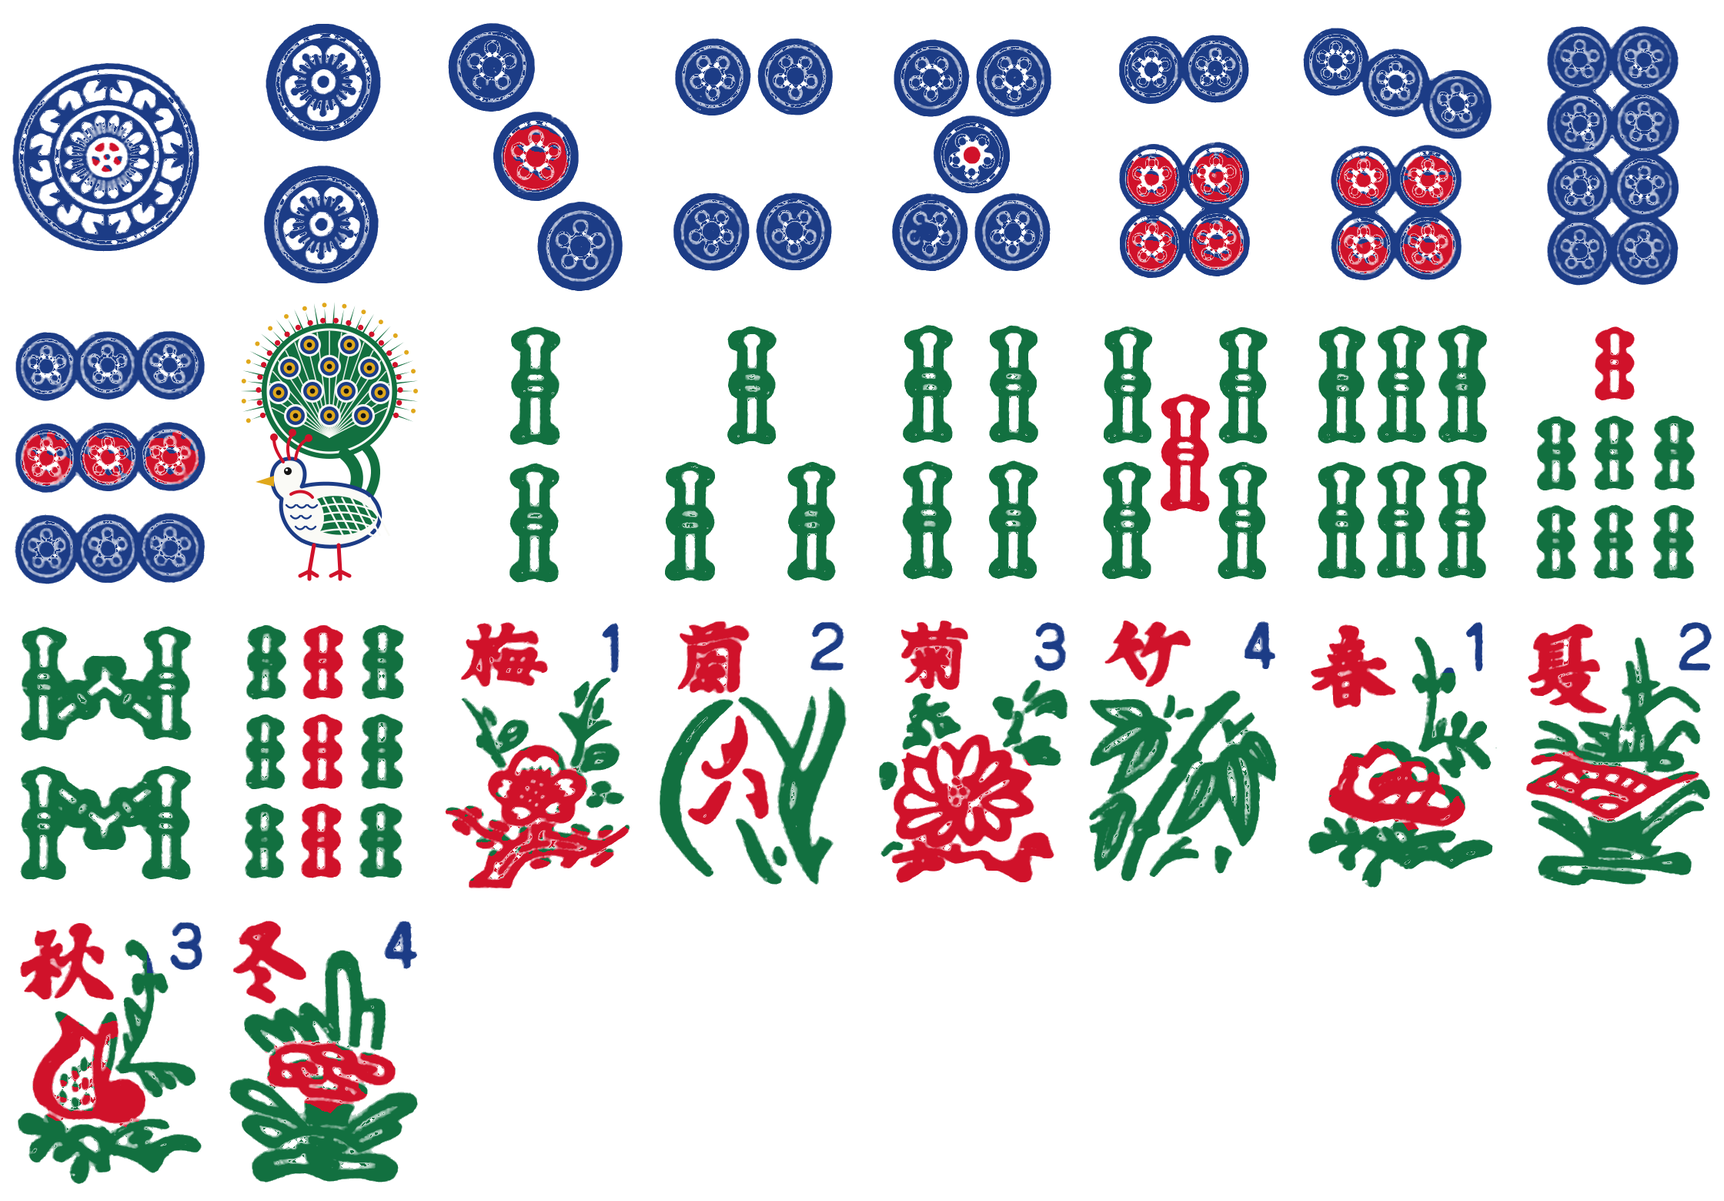
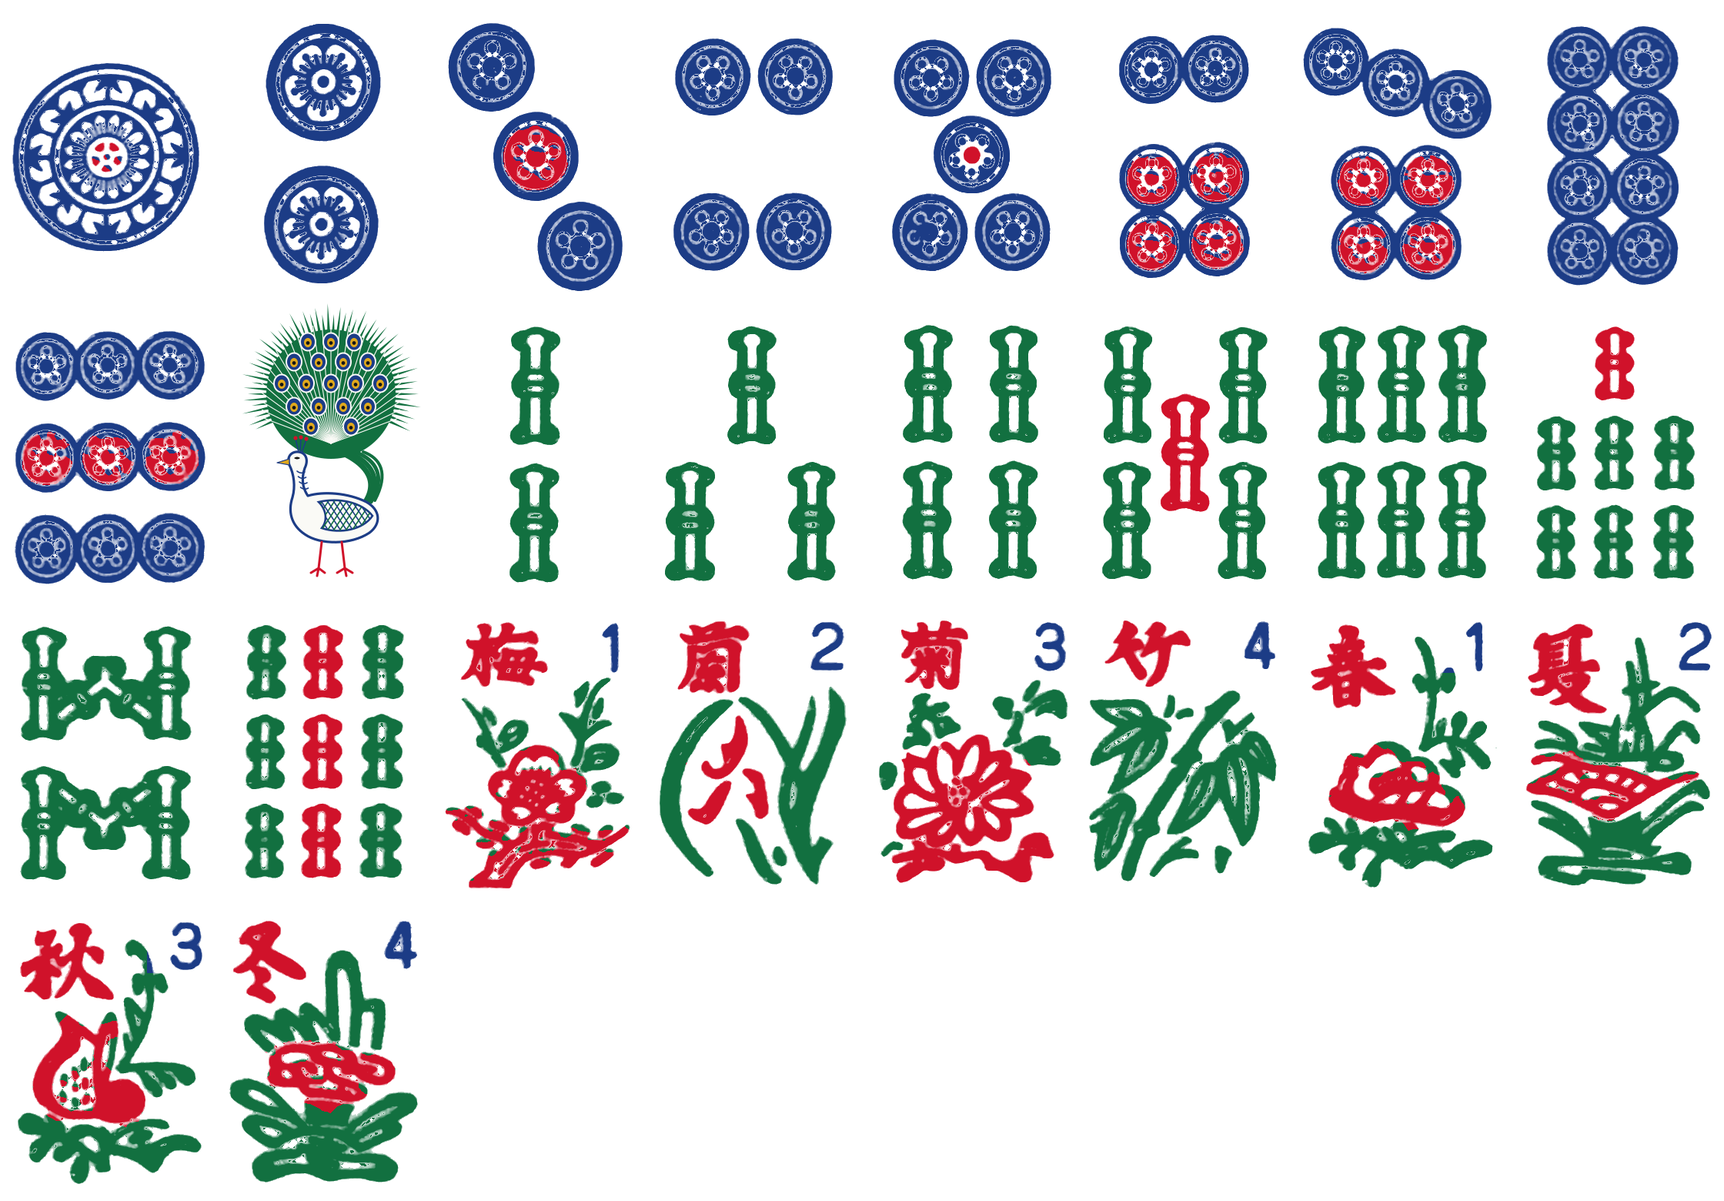
一索を端正な孔雀に、麻雀の牌の背を濃い袱紗紫・控えめな石目に
Claude-Session: https://claude.ai/code/session_01EiWRAVZja6zGai8iStWuh2

Changed region(s): [[0.125, 0.2462, 0.25, 0.4923]]

diff --git a/atlas/lazy.js b/atlas/lazy.js
@@ -5,7 +5,7 @@
      AtlasLazy.has3D(id) / hasPlay(id) / hasRules(id) — known before loading; AtlasLazy.loaded(id) */
 (function () {
 'use strict';
-const G = {"reversi": ["games/reversi.js?v=53", "rules/reversi.js?v=14"], "shogi": ["models/shogi.js?v=101", "games/shogi-play.js?v=42", "games/shogi.js?v=16", "rules/shogi.js?v=21"], "chess": ["models/chess.js?v=16", "games/chess.js?v=18", "rules/chess.js?v=7"], "backgammon": ["models/backgammon.js?v=121", "games/backgammon.js?v=23", "rules/backgammon.js?v=11"], "gomoku": ["models/goban.js?v=15", "games/gomoku.js?v=15", "rules/gomoku.js?v=9"], "go": ["models/goban.js?v=15", "games/go.js?v=9", "rules/go.js?v=7"], "hex": ["models/goban.js?v=15", "models/hex.js?v=2", "games/hex.js?v=6", "rules/hex.js?v=6"], "tafl": ["games/tafl.js?v=15", "rules/tafl.js?v=7"], "xiangqi": ["models/xiangqi.js?v=4", "games/xiangqi.js?v=14", "rules/xiangqi.js?v=6"], "janggi": ["models/xiangqi.js?v=4", "models/janggi.js?v=3", "games/janggi.js?v=6", "rules/janggi.js?v=2"], "checkers": ["models/checkers.js?v=17", "games/checkers.js?v=8", "rules/checkers.js?v=4"], "ugolki": ["models/checkers.js?v=17", "models/ugolki.js?v=4", "games/ugolki.js?v=11", "rules/ugolki.js?v=8"], "morris": ["models/morris.js?v=7", "games/morris-pieces.js?v=2", "games/morris.js?v=7", "rules/morris.js?v=5"], "connect4": ["models/connect4.js?v=5", "games/connect4-tiles.js?v=1", "games/connect4.js?v=5", "rules/connect4.js?v=3"], "mancala": ["models/mancala.js?v=5", "games/mancala.js?v=10", "rules/mancala.js?v=4"], "dots": ["models/dots.js?v=4", "games/dots.js?v=9", "rules/dots.js?v=3"], "ur": ["models/ur-dice.js?v=2", "models/ur.js?v=5", "games/ur-kit.js?v=15", "games/ur.js?v=11", "rules/ur.js?v=16"], "fanorona": ["models/fanorona.js?v=4", "games/fanorona.js?v=6", "rules/fanorona.js?v=8"], "konane": ["models/konane.js?v=7", "games/konane.js?v=13", "rules/konane.js?v=5"], "amazons": ["models/amazons.js?v=7", "games/amazons.js?v=10", "rules/amazons.js?v=5"], "senet": ["models/ur-dice.js?v=2", "models/senet.js?v=10", "games/senet-kit.js?v=5", "games/senet.js?v=16", "rules/senet.js?v=8"], "agon": ["models/agon.js?v=4", "games/agon.js?v=12", "rules/agon.js?v=5"], "alquerque": ["models/alquerque.js?v=3", "rules/alquerque.js?v=6"], "ludo": ["../ludo/engine.js?v=3", "../ludo/house.js?v=7", "../ludo/board2d.js?v=7", "../ludo/board-art.js?v=3", "models/ludo.js?v=10", "games/ludo.js?v=28", "rules/ludo.js?v=3"], "carrom": ["../carrom/engine.js?v=7", "models/carrom.js?v=18", "games/carrom.js?v=38", "rules/carrom.js?v=8"], "crokinole": ["../carrom/engine.js?v=7", "games/carrom.js?v=38", "../crokinole/engine.js?v=4", "models/crokinole.js?v=13", "games/crokinole.js?v=15", "rules/crokinole.js?v=4"], "hockey": ["../hockey/engine.js?v=15", "models/hockey.js?v=8", "games/hockey.js?v=30", "rules/hockey.js?v=7"], "shanghai": ["games/shanghai-core.js?v=1", "games/shanghai-i18n.js?v=1", "models/shanghai.js?v=9", "games/shanghai.js?v=2"], "peg": ["../peg/engine.js?v=1", "../peg/i18n.js?v=7", "models/peg.js?v=21", "games/peg.js?v=4", "rules/peg.js?v=4"]};
+const G = {"reversi": ["games/reversi.js?v=53", "rules/reversi.js?v=14"], "shogi": ["models/shogi.js?v=101", "games/shogi-play.js?v=42", "games/shogi.js?v=16", "rules/shogi.js?v=21"], "chess": ["models/chess.js?v=16", "games/chess.js?v=18", "rules/chess.js?v=7"], "backgammon": ["models/backgammon.js?v=121", "games/backgammon.js?v=23", "rules/backgammon.js?v=11"], "gomoku": ["models/goban.js?v=15", "games/gomoku.js?v=15", "rules/gomoku.js?v=9"], "go": ["models/goban.js?v=15", "games/go.js?v=9", "rules/go.js?v=7"], "hex": ["models/goban.js?v=15", "models/hex.js?v=2", "games/hex.js?v=6", "rules/hex.js?v=6"], "tafl": ["games/tafl.js?v=15", "rules/tafl.js?v=7"], "xiangqi": ["models/xiangqi.js?v=4", "games/xiangqi.js?v=14", "rules/xiangqi.js?v=6"], "janggi": ["models/xiangqi.js?v=4", "models/janggi.js?v=3", "games/janggi.js?v=6", "rules/janggi.js?v=2"], "checkers": ["models/checkers.js?v=17", "games/checkers.js?v=8", "rules/checkers.js?v=4"], "ugolki": ["models/checkers.js?v=17", "models/ugolki.js?v=4", "games/ugolki.js?v=11", "rules/ugolki.js?v=8"], "morris": ["models/morris.js?v=7", "games/morris-pieces.js?v=2", "games/morris.js?v=7", "rules/morris.js?v=5"], "connect4": ["models/connect4.js?v=5", "games/connect4-tiles.js?v=1", "games/connect4.js?v=5", "rules/connect4.js?v=3"], "mancala": ["models/mancala.js?v=5", "games/mancala.js?v=10", "rules/mancala.js?v=4"], "dots": ["models/dots.js?v=4", "games/dots.js?v=9", "rules/dots.js?v=3"], "ur": ["models/ur-dice.js?v=2", "models/ur.js?v=5", "games/ur-kit.js?v=15", "games/ur.js?v=11", "rules/ur.js?v=16"], "fanorona": ["models/fanorona.js?v=4", "games/fanorona.js?v=6", "rules/fanorona.js?v=8"], "konane": ["models/konane.js?v=7", "games/konane.js?v=13", "rules/konane.js?v=5"], "amazons": ["models/amazons.js?v=7", "games/amazons.js?v=10", "rules/amazons.js?v=5"], "senet": ["models/ur-dice.js?v=2", "models/senet.js?v=10", "games/senet-kit.js?v=5", "games/senet.js?v=16", "rules/senet.js?v=8"], "agon": ["models/agon.js?v=4", "games/agon.js?v=12", "rules/agon.js?v=5"], "alquerque": ["models/alquerque.js?v=3", "rules/alquerque.js?v=6"], "ludo": ["../ludo/engine.js?v=3", "../ludo/house.js?v=7", "../ludo/board2d.js?v=7", "../ludo/board-art.js?v=3", "models/ludo.js?v=10", "games/ludo.js?v=28", "rules/ludo.js?v=3"], "carrom": ["../carrom/engine.js?v=7", "models/carrom.js?v=18", "games/carrom.js?v=38", "rules/carrom.js?v=8"], "crokinole": ["../carrom/engine.js?v=7", "games/carrom.js?v=38", "../crokinole/engine.js?v=4", "models/crokinole.js?v=13", "games/crokinole.js?v=15", "rules/crokinole.js?v=4"], "hockey": ["../hockey/engine.js?v=15", "models/hockey.js?v=8", "games/hockey.js?v=30", "rules/hockey.js?v=7"], "shanghai": ["games/shanghai-core.js?v=1", "games/shanghai-i18n.js?v=1", "models/shanghai.js?v=10", "games/shanghai.js?v=2"], "peg": ["../peg/engine.js?v=1", "../peg/i18n.js?v=7", "models/peg.js?v=21", "games/peg.js?v=4", "rules/peg.js?v=4"]};
 const F = {"reversi": {"t3": true, "play": true, "rules": true}, "shogi": {"t3": true, "play": true, "rules": true}, "chess": {"t3": true, "play": true, "rules": true}, "backgammon": {"t3": true, "play": true, "rules": true}, "gomoku": {"t3": true, "play": true, "rules": true}, "go": {"t3": true, "play": true, "rules": true}, "hex": {"t3": true, "play": true, "rules": true}, "tafl": {"t3": true, "play": true, "rules": true}, "xiangqi": {"t3": true, "play": true, "rules": true}, "janggi": {"t3": true, "play": true, "rules": true}, "checkers": {"t3": true, "play": true, "rules": true}, "ugolki": {"t3": true, "play": true, "rules": true}, "morris": {"t3": true, "play": true, "rules": true}, "connect4": {"t3": true, "play": true, "rules": true}, "mancala": {"t3": true, "play": true, "rules": true}, "dots": {"t3": true, "play": true, "rules": true}, "ur": {"t3": true, "play": true, "rules": true}, "fanorona": {"t3": true, "play": true, "rules": true}, "konane": {"t3": true, "play": true, "rules": true}, "amazons": {"t3": true, "play": true, "rules": true}, "senet": {"t3": true, "play": true, "rules": true}, "agon": {"t3": true, "play": true, "rules": true}, "alquerque": {"t3": true, "play": false, "rules": true}, "ludo": {"t3": true, "play": true, "rules": true}, "carrom": {"t3": true, "play": true, "rules": true}, "crokinole": {"t3": true, "play": true, "rules": true}, "hockey": {"t3": true, "play": true, "rules": true}, "peg": {"t3": true, "play": true, "rules": true}, "shanghai": {"t3": true, "play": true, "rules": false}};
 const done = new Set(), loading = new Map(), ok = new Set();
 function load(src) {

diff --git a/mahjong/app.css b/mahjong/app.css
@@ -152,14 +152,14 @@ svg{width:100%;height:100%;fill:none;stroke:currentColor;stroke-width:1.9;stroke
 .tbtns{position:absolute;top:max(10px,var(--st));right:max(10px,var(--sr));display:flex;gap:6px}
 /* tiles in html */
 .tl{position:relative;display:inline-block;width:var(--tw);aspect-ratio:3/4;border-radius:calc(var(--tw)*.12);background:#fafaf6;flex:none;
-  box-shadow:inset 0 -4px 0 #e6e4dc,0 calc(var(--tw)*.1) 0 #a58cd6,0 calc(var(--tw)*.1 + 2px) 0 #7a64b0,0 8px 14px rgba(0,0,0,.35);transition:transform .12s, filter .12s;margin-bottom:calc(var(--tw)*.1)}
+  box-shadow:inset 0 -4px 0 #e6e4dc,0 calc(var(--tw)*.1) 0 #5a3787,0 calc(var(--tw)*.1 + 2px) 0 #3a2260,0 8px 14px rgba(0,0,0,.35);transition:transform .12s, filter .12s;margin-bottom:calc(var(--tw)*.1)}
 .tl img{position:absolute;inset:4%;width:92%;height:88%;border-radius:calc(var(--tw)*.08);display:block;pointer-events:none}
-.tl.back{background:radial-gradient(120% 80% at 30% 20%,rgba(250,244,255,.55),transparent 55%),linear-gradient(135deg,transparent 40%,rgba(245,238,255,.5) 46%,transparent 52%),linear-gradient(160deg,#c3b0e6,#a58cd6 55%,#b9a6e0);box-shadow:inset 0 0 0 2px rgba(255,255,255,.35),0 3px 0 #fafaf6,0 5px 8px rgba(0,0,0,.3)}   /* (pale polished lavender stone, as the 3D tile backs, 2026-11-14) */
-.tl.xs{--tw:22px;box-shadow:0 2px 0 #a58cd6,0 3px 5px rgba(0,0,0,.3);margin:0}
-.tl.sm{--tw:34px;box-shadow:0 3px 0 #a58cd6,0 4px 8px rgba(0,0,0,.3);margin:0}
-.tl.md{--tw:40px;box-shadow:0 4px 0 #a58cd6,0 6px 10px rgba(0,0,0,.3);margin:0}
+.tl.back{background:radial-gradient(120% 80% at 30% 20%,rgba(220,200,250,.18),transparent 55%),linear-gradient(135deg,transparent 40%,rgba(220,205,245,.12) 46%,transparent 52%),linear-gradient(160deg,#66408f,#55337f 55%,#5f3a8c);box-shadow:inset 0 0 0 2px rgba(255,255,255,.35),0 3px 0 #fafaf6,0 5px 8px rgba(0,0,0,.3)}   /* (pale polished lavender stone, as the 3D tile backs, 2026-11-14) */
+.tl.xs{--tw:22px;box-shadow:0 2px 0 #5a3787,0 3px 5px rgba(0,0,0,.3);margin:0}
+.tl.sm{--tw:34px;box-shadow:0 3px 0 #5a3787,0 4px 8px rgba(0,0,0,.3);margin:0}
+.tl.md{--tw:40px;box-shadow:0 4px 0 #5a3787,0 6px 10px rgba(0,0,0,.3);margin:0}
 .tl.side{transform:rotate(-90deg);margin:0 calc(var(--tw)*.17)}
-.tl.win{box-shadow:0 0 0 3px #ffd24a,0 4px 0 #a58cd6,0 0 20px rgba(255,210,74,.7)}
+.tl.win{box-shadow:0 0 0 3px #ffd24a,0 4px 0 #5a3787,0 0 20px rgba(255,210,74,.7)}
 .tl.hl{box-shadow:0 0 0 2px #ffd24a,0 2px 0 #6b3fc4}
 .hand{position:absolute;left:0;right:0;bottom:max(8px,var(--sb));display:flex;align-items:flex-end;justify-content:center;gap:18px;padding:0 12px;pointer-events:none}
 .hand .hrow{display:flex;align-items:flex-end;gap:2px;pointer-events:auto}
@@ -392,7 +392,7 @@ html[lang=en] .ci-word{font-family:'Cinzel',serif;font-weight:800;font-size:min(
 #game{--th:min(calc((var(--W) - 90px) / 15.6), calc(calc(var(--H) * 0.16) * .75), 86px);--bf:66px}
 #game .hand .tl:not(.sm):not(.xs){--tw:var(--th)}
 #game .hand .melds .tl.sm{--tw:calc(var(--th) * .7)}
-#game .hand .tl{box-shadow:inset 0 -3px 0 #ddd3bb,0 calc(var(--tw)*.12) 0 #a58cd6,0 calc(var(--tw)*.12 + 2px) 0 #3c2077,0 10px 18px rgba(0,0,0,.45)}
+#game .hand .tl{box-shadow:inset 0 -3px 0 #ddd3bb,0 calc(var(--tw)*.12) 0 #5a3787,0 calc(var(--tw)*.12 + 2px) 0 #3c2077,0 10px 18px rgba(0,0,0,.45)}
 #game .hand.active .tl.can:hover,#game .hand .tl.up{transform:translateY(calc(var(--th) * -.24))}
 #game .hand{bottom:max(6px,var(--sb));gap:calc(var(--th) * .3)}
 #game .hand .hrow{gap:1px}
@@ -868,7 +868,7 @@ html.ds #game .rbox{padding:10px 14px;gap:7px}
 html.ds #game .rk b{font-size:22px}
 html.ds #game .rk span,html.ds #game .rl{font-size:13px}
 html.ds #game .rd small{font-size:13px}
-html.ds #game .rd .tl.xs{--tw:clamp(30px, calc(var(--GH) * .05), 42px);box-shadow:0 3px 0 #a58cd6,0 4px 8px rgba(0,0,0,.4)}
+html.ds #game .rd .tl.xs{--tw:clamp(30px, calc(var(--GH) * .05), 42px);box-shadow:0 3px 0 #5a3787,0 4px 8px rgba(0,0,0,.4)}
 html.ds .khelp{left:calc(max(10px,var(--sl)) + 262px)}
 
 /* ================= PC: pull the UI in from the window edges ================= */

diff --git a/mahjong/table3d.js b/mahjong/table3d.js
@@ -9,14 +9,14 @@ const W = 1, H = 1.36, D = 0.78;
 function stoneTex() {
   const S = 512, c = document.createElement('canvas'); c.width = c.height = S; const g = c.getContext('2d');
   let seed = 7; const R = () => (seed = (seed * 16807) % 2147483647) / 2147483647;
-  const base = g.createLinearGradient(0, 0, S, S); base.addColorStop(0, '#b7a2e0'); base.addColorStop(.5, '#a68ed6'); base.addColorStop(1, '#b3a0dc');
+  const base = g.createLinearGradient(0, 0, S, S); base.addColorStop(0, '#5f3a8c'); base.addColorStop(.5, '#55337f'); base.addColorStop(1, '#5c3889');   // (a deep 袱紗 purple, ユーザー 2026-11-14)
   g.fillStyle = base; g.fillRect(0, 0, S, S);
   for (let i = 0; i < 26; i++) { const x = R() * S, y = R() * S, r = 40 + R() * 140, gr = g.createRadialGradient(x, y, 0, x, y, r), light = R() < .5;
-    gr.addColorStop(0, light ? 'rgba(236,226,255,.28)' : 'rgba(120,92,180,.22)'); gr.addColorStop(1, 'rgba(0,0,0,0)'); g.fillStyle = gr; g.fillRect(0, 0, S, S); }
+    gr.addColorStop(0, light ? 'rgba(180,150,220,.10)' : 'rgba(40,20,70,.10)'); gr.addColorStop(1, 'rgba(0,0,0,0)'); g.fillStyle = gr; g.fillRect(0, 0, S, S); }
   const vein = (col, w, blur, n) => { g.save(); g.strokeStyle = col; g.lineWidth = w; g.shadowColor = col; g.shadowBlur = blur; g.lineCap = 'round';
     for (let k = 0; k < n; k++) { let x = R() * S, y = R() * S, a = R() * 6.28; g.beginPath(); g.moveTo(x, y); for (let i = 0; i < 18; i++) { a += (R() - .5) * .9; x += Math.cos(a) * 26; y += Math.sin(a) * 26; g.lineTo(x, y); } g.stroke(); } g.restore(); };
-  vein('rgba(246,240,255,.55)', 2.2, 10, 6); vein('rgba(250,246,255,.8)', .8, 2, 8); vein('rgba(110,80,170,.35)', .7, 1, 10);
-  for (let i = 0; i < 900; i++) { g.fillStyle = `rgba(255,255,255,${.1 + R() * .35})`; g.fillRect(R() * S, R() * S, 1, 1); }
+  vein('rgba(200,180,235,.14)', 2, 10, 4); vein('rgba(220,205,245,.18)', .7, 2, 5);   // (only a hint of stone: ユーザー「素材感強すぎ」)
+  for (let i = 0; i < 300; i++) { g.fillStyle = `rgba(255,255,255,${.04 + R() * .1})`; g.fillRect(R() * S, R() * S, 1, 1); }
   const t = new THREE.CanvasTexture(c); t.encoding = THREE.sRGBEncoding; t.wrapS = t.wrapT = THREE.RepeatWrapping; t.anisotropy = 4; return t;
 }
 // a small studio around the table for the polished surfaces to reflect: a soft ceiling light, a window strip, dark walls
@@ -177,7 +177,7 @@ class Table3D {
     this.envTex = studioEnv();
     const stone = stoneTex();
     this.matBacks = [0, 1, 2, 3].map(k => { const t = stone.clone(); t.needsUpdate = true; t.offset.set(k * .27, k * .41); t.rotation = k * .9; t.center.set(.5, .5);
-      return new THREE.MeshPhysicalMaterial({ map: t, roughness: .2, metalness: 0, clearcoat: 1, clearcoatRoughness: .06, envMap: this.envTex, envMapIntensity: .75 }); });
+      return new THREE.MeshPhysicalMaterial({ map: t, roughness: .3, metalness: 0, clearcoat: .6, clearcoatRoughness: .14, envMap: this.envTex, envMapIntensity: .45 }); });
     this.matBack = this.matBacks[0];
     this.matHi = new THREE.MeshStandardMaterial({ color: 0xfff1b8, roughness: .35, emissive: 0x6a5208, emissiveIntensity: .45 });
     this.setInfo({ round: 0, kyoku: 0, honba: 0, kyotaku: 0, left: 70, scores: [25000, 25000, 25000, 25000], dealer: 0, turn: -1 });

diff --git a/mahjong/index.html b/mahjong/index.html
@@ -17,7 +17,7 @@
 <link rel="preconnect" href="https://fonts.googleapis.com">
 <link rel="preconnect" href="https://fonts.gstatic.com" crossorigin>
 <link href="https://fonts.googleapis.com/css2?family=Shippori+Mincho+B1:wght@600;800&family=Yuji+Boku&family=Zen+Kaku+Gothic+New:wght@500;700;900&family=Cinzel:wght@600;800&family=Orbitron:wght@700&display=swap" rel="stylesheet">
-<link rel="stylesheet" href="app.css?v=34">
+<link rel="stylesheet" href="app.css?v=35">
 </head>
 <body>
 <div id="root">
@@ -110,10 +110,10 @@ else document.write('<script src="../atlas/vendor/three-r186.min.js?v=1"><\/scri
 <script src="skills.js?v=8"></script>
 <script src="game.js?v=7"></script>
 <script src="ai.js?v=6"></script>
-<script src="tiles.js?v=5"></script>
+<script src="tiles.js?v=6"></script>
 <script src="chars.js?v=3"></script>
 <script src="img/tex/baked.js?v=2"></script>
-<script src="table3d.js?v=16"></script>
+<script src="table3d.js?v=17"></script>
 <script src="framefx.js?v=12"></script>
 <script src="../shared/record.js?v=16"></script>
 <script src="app.js?v=28"></script>

diff --git a/atlas/models/shanghai.js b/atlas/models/shanghai.js
@@ -93,7 +93,7 @@
   }
   // 筒子・索子・花／季節: the pictures traced in colour from the same photos (atlas/tools/shanghai-glyphs.py art →
   // atlas/img/shanghai-art.png, 8×4 RGBA cells: 0–8 筒子, 9–17 索子 (9 = 一索の鳥), 18–21 梅蘭菊竹, 22–25 春夏秋冬), 2026-11-14
-  const ART_URL = new URL('../img/shanghai-art.png?v=4', (document.currentScript && document.currentScript.src) || location.href).href;
+  const ART_URL = new URL('../img/shanghai-art.png?v=5', (document.currentScript && document.currentScript.src) || location.href).href;
   let artImg = null;
   const artCell = f => f >= 9 && f < 27 ? f - 9 : f >= 34 && f < 42 ? 18 + (f - 34) : -1;
   function art(c, f) { const k = artCell(f); if (!artImg || k < 0) return false; c.drawImage(artImg, (k % 8) * GW, Math.floor(k / 8) * GH, GW, GH, 0, 0, 256, 362); return true; }

diff --git a/mahjong/tiles.js b/mahjong/tiles.js
@@ -111,7 +111,7 @@ const GW = 280, GH = 390, SHEET = new URL('../atlas/img/', (document.currentScri
 let gImg = null, aImg = null, readyP = null;
 function ready() {
   const one = (u, set) => new Promise(res => { const im = new Image(); im.onload = () => { set(im); res(); }; im.onerror = () => res(); im.src = SHEET + u; setTimeout(res, 5000); });
-  return readyP || (readyP = Promise.all([one('shanghai-glyphs.png?v=1', im => { gImg = im; }), one('shanghai-art.png?v=4', im => { aImg = im; })]));
+  return readyP || (readyP = Promise.all([one('shanghai-glyphs.png?v=1', im => { gImg = im; }), one('shanghai-art.png?v=5', im => { aImg = im; })]));
 }
 const GROUND = '#fafaf6';
 // one cell of a sheet in a colour (glyph sheet: channel ch; art sheet: ch < 0 keeps its colours, or recolours all to `col`)

diff --git a/atlas/index.html b/atlas/index.html
@@ -2260,7 +2260,7 @@ window.AtlasRgdTimer = function (btn, ms, alive) {
   }, 60);
 };</script>
 <script src="../shared/tapword.js?v=1"></script>
-<script src="lazy.js?v=207"></script>
+<script src="lazy.js?v=208"></script>
 <script src="puzzle-lines.js?v=1"></script>
 <script src="puzzles.js?v=26"></script>
 <script src="lessons3d.js?v=20"></script>

diff --git a/claude/mahjong-spec.md b/claude/mahjong-spec.md
@@ -87,4 +87,4 @@
 ## 牌の見た目（2026-11-14）
 - 牌の絵と文字は上海（大百科）と共通：日本式の実物の牌の写真からなぞったシート（`atlas/img/shanghai-glyphs.png`・`shanghai-art.png`、`atlas/tools/shanghai-glyphs.py`）を `tiles.js` が読み込んで描く（`MJTiles.ready()`、読み込めないときは以前の描画）。赤ドラは全部を赤に塗り替え。地は白 #fafaf6。
 - 3Dの牌（`table3d.js` roundTile）：角と縁を丸めた白い本体＋紫の背（ユーザー指定：裏面は紫）。面は彫り（`MJTiles.normal`：塗りは平ら、文字のすぐ外の白い縁が溝へ落ちる法線マップ、墨入れなし）。
-- 牌の背（2026-11-14）：淡いラベンダーの磨いた石（キャンバスの石目＋クリアコート＋小さなスタジオの映り込み、隣と模様がそろわないよう4通りの切り出し）。2D表示の牌の背と側面も同じ色味に。
+- 牌の背（2026-11-14）：濃い袱紗の紫に、ごく控えめな石目とつや（ユーザー：素材感は薄く、紫は濃く）。最初は淡いラベンダーの磨いた石（キャンバスの石目＋クリアコート＋小さなスタジオの映り込み、隣と模様がそろわないよう4通りの切り出し）。2D表示の牌の背と側面も同じ色味に。

diff --git a/claude/shanghai-spec.md b/claude/shanghai-spec.md
@@ -37,4 +37,4 @@
 
 ## まだのこと
 - 3Dルールコース（キャラ進行）、ヒストリア、背の色・マットの選択UI、スマホで大きな配置を拡大・移動して遊ぶ操作。
-- 一索（2026-11-14）：写真の孔雀そのままではなく日本の牌でなじみの孔雀を華やかにした独自の図案（ユーザー指定：モチーフは孔雀。丸く広げた尾羽に目玉模様・羽軸・金と赤の飾り、白い胴に格子の翼と胸の鱗、赤い冠と脚。`atlas/tools/shanghai-bird.svg`、牌の塗り5色の平塗り）。shanghai-glyphs.py art がセル9に描き込む。麻雀（mahjong/）も共通。
+- 一索（2026-11-14）：写真の孔雀そのままではなく日本の牌でなじみの孔雀を版画のように端正に描いた独自の図案（ユーザー指定：モチーフは孔雀、可愛くしすぎずシリアスに。細い羽を重ねた扇の尾羽に小さめの目玉模様、背から立ち上がる尾、細い線の胴・アーモンド形の目・格子の翼、細い冠と赤い脚。`atlas/tools/shanghai-bird.svg`、牌の塗り5色の平塗り）。shanghai-glyphs.py art がセル9に描き込む。麻雀（mahjong/）も共通。
